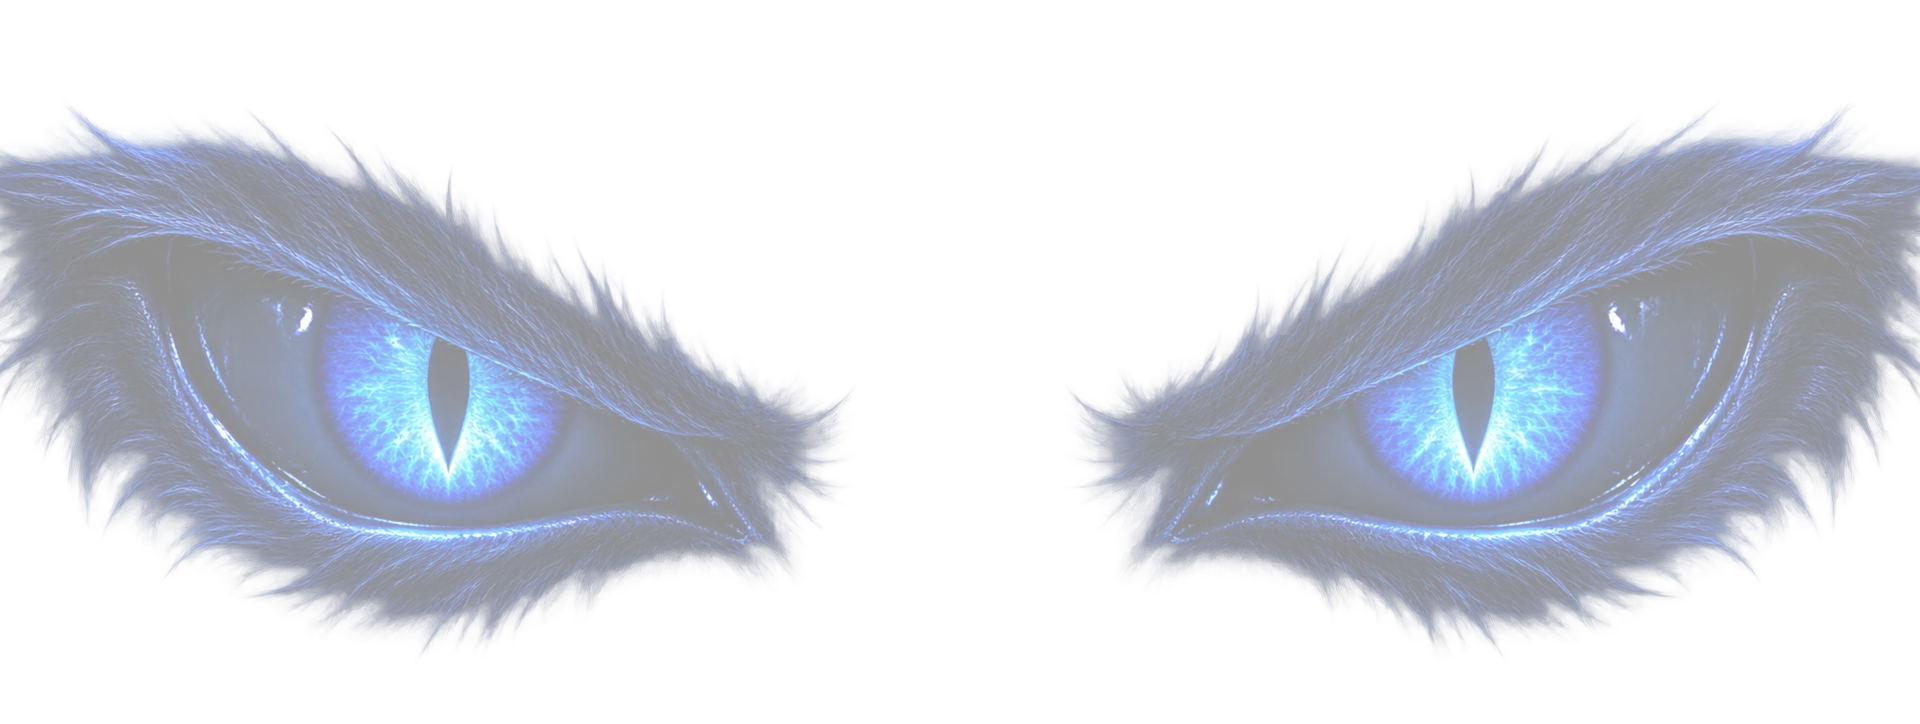
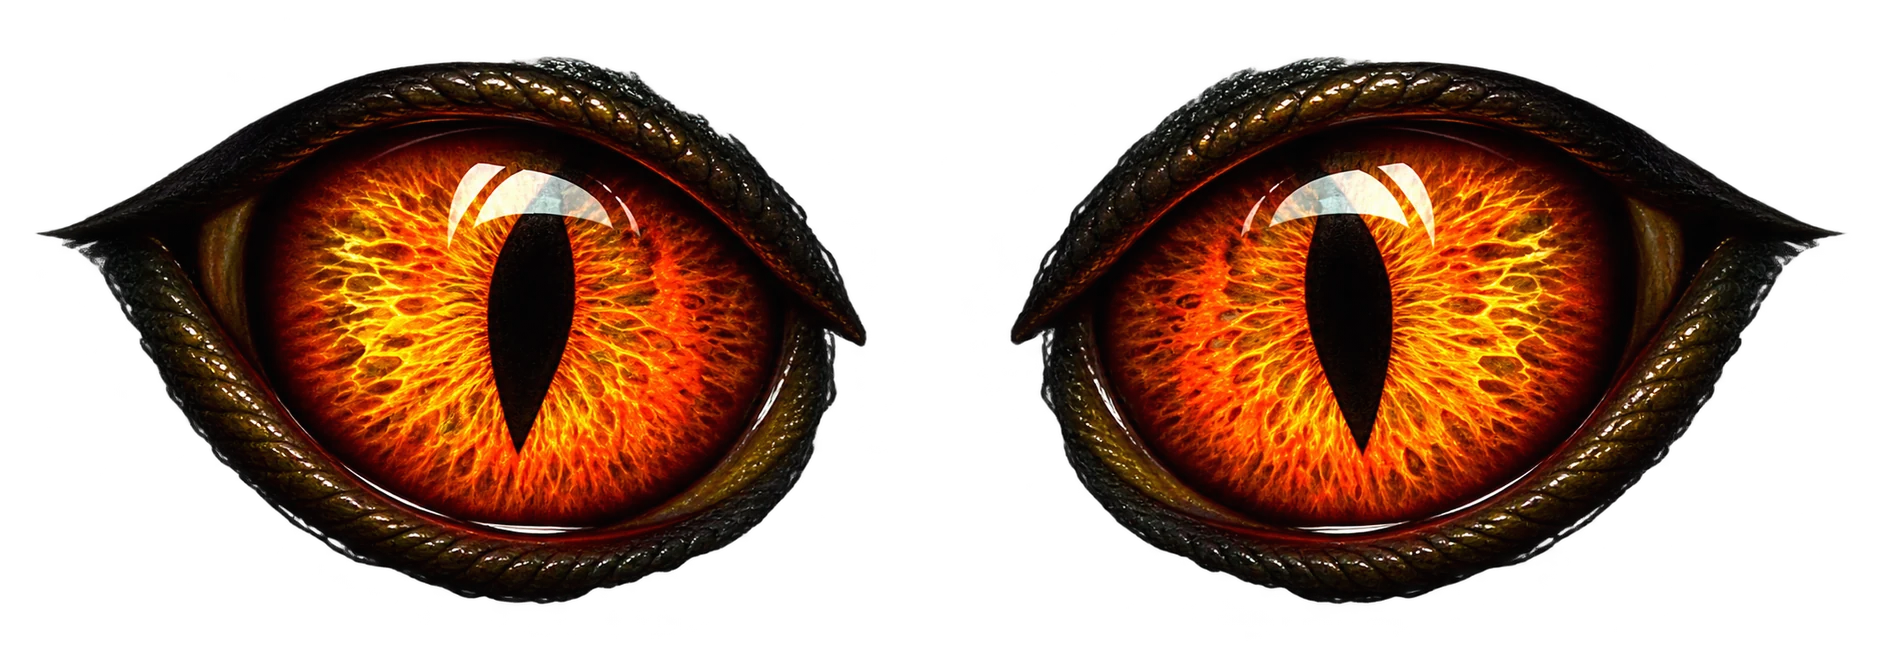
Replace background eyes with orange dragon eyes
Claude-Session: https://claude.ai/code/session_01GcVaqjzpsrkh3PGuD8Hfdw

diff --git a/index.html b/index.html
@@ -32,12 +32,12 @@ body{margin:0;background:var(--ink);color:var(--white);font-family:var(--font);o
 img{max-width:none;display:block;user-select:none;-webkit-user-drag:none}
 
 /* ---------- MONSTER EYES (slowly appear in the background, flash at the end) ---------- */
-#eyes{position:absolute;left:22px;top:184px;width:1882px;height:710px;z-index:1;pointer-events:none;opacity:0}
+#eyes{position:absolute;left:22px;top:212px;width:1882px;height:653px;z-index:1;pointer-events:none;opacity:0}
 #eyes img{position:absolute;inset:0;width:100%;height:100%}
 #eyesBoost{mix-blend-mode:screen;opacity:0}
 #oMouth{opacity:0}
 .flare{position:absolute;width:420px;height:420px;margin:-210px 0 0 -210px;border-radius:50%;opacity:0;mix-blend-mode:screen;
-  background:radial-gradient(circle,rgba(0,0,0,0) 0 9%,rgba(120,210,255,.9) 16%,rgba(40,120,255,.55) 32%,rgba(0,80,255,.18) 52%,rgba(0,60,255,0) 70%)}
+  background:radial-gradient(circle,rgba(0,0,0,0) 0 9%,rgba(255,200,90,.9) 16%,rgba(255,120,20,.55) 32%,rgba(255,70,0,.18) 52%,rgba(255,60,0,0) 70%)}
 
 /* ---------- NAV (exact frame coords) ---------- */
 .navlink{position:absolute;top:50px;height:24px;line-height:24px;font-size:20px;font-weight:400;color:var(--white);
@@ -115,13 +115,11 @@ a:focus-visible,button:focus-visible{outline:3px solid var(--cheddar);outline-of
 </style>
 </head>
 <body>
-
-
 <div id="bg"></div>
 
 <div id="stage">
   <div id="eyes" aria-hidden="true"><img src="img/eyes.webp" alt=""><img id="eyesBoost" src="img/eyes.webp" alt="">
-    <i class="flare" style="left:408px;top:415px"></i><i class="flare" style="left:1475px;top:417px"></i></div>
+    <i class="flare" style="left:484px;top:339px"></i><i class="flare" style="left:1386px;top:339px"></i></div>
   <img id="juicy" class="abs intro" src="img/juicy.webp" alt="Juicy" width="1335" height="445">
 
   <div id="scene" class="abs">
